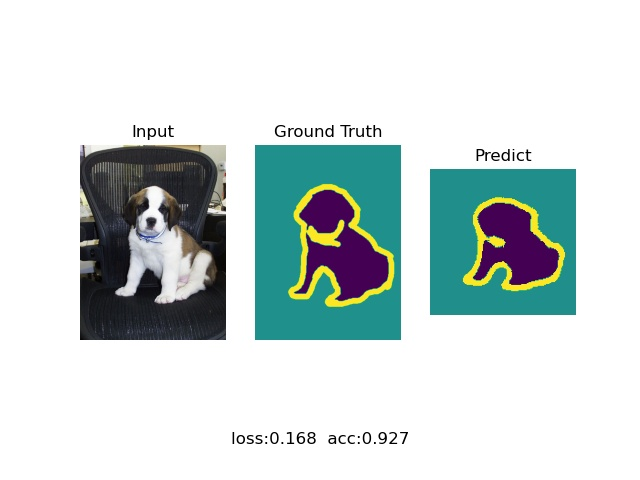
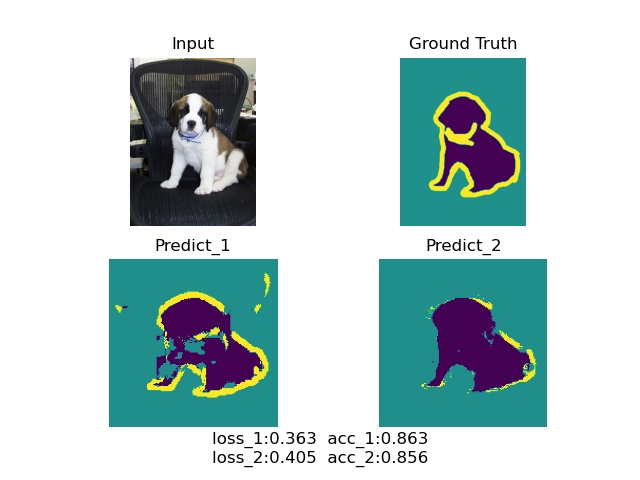
2021-10-08

diff --git a/Keras_train.py b/Keras_train.py
@@ -82,7 +82,6 @@ class OxfordPets(keras.utils.Sequence):
         for j, path in enumerate(batch_target_img_paths):
             img = load_img(path, target_size=self.img_size, color_mode="grayscale")
             y[j] = np.expand_dims(img, 2)
-            # Ground truth labels are 1, 2, 3. Subtract one to make them 0, 1, 2:
             y[j] -= 1
         return x, [y,y]
 
@@ -127,7 +126,7 @@ def get_model(img_size, num_classes):
     #10,10,512   ->  10,10,256
     conv3_1_up = layers.UpSampling2D(2)(conv3_1_up)
     #10,10,256   ->  20,20,256
-    conv3_1 = layers.Concatenate(axis=3)([temporary3_0,conv3_1_up])
+    conv3_1 = layers.Concatenate(axis=-1)([temporary3_0,conv3_1_up])
     #20,20,256+20,20,256 -> 20,20,512
     conv3_1 = layers.Conv2D(256,3,strides=1,padding="same",activation=keras.activations.relu)(conv3_1)
     #20,20,512   ->  20,20,256
@@ -136,7 +135,7 @@ def get_model(img_size, num_classes):
     #20,20,256   ->  20,20,128
     conv2_1_up = layers.UpSampling2D(2)(conv2_1_up)
     #20,20,128   ->  40,40,128
-    conv2_1 = layers.Concatenate(axis=3)([conv2_1_up,temporary2_0])
+    conv2_1 = layers.Concatenate(axis=-1)([conv2_1_up,temporary2_0])
     #40,40,128+40,40,128 -> 40,40,256
     conv2_1 = layers.Conv2D(128,3,strides=1,padding="same",activation=keras.activations.relu)(conv2_1)
     #40,40,256  -> 40,40,128
@@ -145,7 +144,7 @@ def get_model(img_size, num_classes):
     #20,20,256  -> 20,20,128
     conv2_2_up = layers.UpSampling2D(2)(conv2_2_up)
     #20,20,128  -> 40,40,128
-    conv2_2 = layers.Concatenate(axis=3)([temporary2_0,conv2_1,conv2_2_up])
+    conv2_2 = layers.Concatenate(axis=-1)([temporary2_0,conv2_1,conv2_2_up])
     #40,40,128 * 3  => 40,40,384
     conv2_2 = layers.Conv2D(128,3,strides=1,padding="same",activation=keras.activations.relu)(conv2_2)
     #40,40,384  -> 40,40,128
@@ -154,7 +153,7 @@ def get_model(img_size, num_classes):
     #40,40,128  -> 40,40,64
     conv1_1_up = layers.UpSampling2D(2)(conv1_1_up)
     #40,40,64   -> 80,80,64
-    conv1_1 = layers.Concatenate(axis=3)([temporary1_0,conv1_1_up])
+    conv1_1 = layers.Concatenate(axis=-1)([temporary1_0,conv1_1_up])
     #80,80,64 + 80,80,64 -> 80,80,128
     conv1_1 = layers.Conv2D(64,3,strides=1,padding="same",activation=keras.activations.relu)(conv1_1)
     #80,80,128  -> 80,80,64
@@ -163,7 +162,7 @@ def get_model(img_size, num_classes):
     #40,40,128  -> 40,40,64
     conv1_2_up = layers.UpSampling2D(2)(conv1_2_up)
     #40,40,64   -> 80,80,64
-    conv1_2 = layers.Concatenate(axis=3)([temporary1_0,conv1_1,conv1_2_up])
+    conv1_2 = layers.Concatenate(axis=-1)([temporary1_0,conv1_1,conv1_2_up])
     #80,80,64 * 3  -> 80,80,192
     conv1_2 = layers.Conv2D(64,3,strides=1,padding="same",activation=keras.activations.relu)(conv1_2)
     #80,80,192  -> 80,80,64
@@ -172,7 +171,7 @@ def get_model(img_size, num_classes):
     #80,80,64   -> 80,80,32
     conv0_1_up = layers.UpSampling2D(2)(conv0_1_up)
     #80,80,32   -> 160,160,32
-    conv0_1 = layers.Concatenate(axis=3)([temporary0_0,conv0_1_up])
+    conv0_1 = layers.Concatenate(axis=-1)([temporary0_0,conv0_1_up])
     #160,160,32 -> 160,160,64
     conv0_1 = layers.Conv2D(32,3,strides=1,padding="same",activation=keras.activations.relu)(conv0_1)
     #160,160,64 -> 160,160,32

diff --git a/Kersa_result.py b/Kersa_result.py
@@ -67,7 +67,7 @@ class OxfordPets(keras.utils.Sequence):
             y[j] = np.expand_dims(img, 2)
             # Ground truth labels are 1, 2, 3. Subtract one to make them 0, 1, 2:
             y[j] -= 1
-        return x, y
+        return x, [y,y]
 
 
 
@@ -76,7 +76,7 @@ class OxfordPets(keras.utils.Sequence):
 keras.backend.clear_session()
 
 
-model_Res = keras.models.load_model('oxford_unetpp.h5')
+model = keras.models.load_model('oxford_unetpp.h5')
 
 
 
@@ -90,20 +90,24 @@ model_Res = keras.models.load_model('oxford_unetpp.h5')
 test_gen  = OxfordPets( batch_size, img_size, test_input_img_paths , test_target_img_paths)
 #
 # ResNet
-val_preds_Res = model_Res.predict(test_gen)
-loss_R,acc_R  = model_Res.evaluate(test_gen)
-print(str(loss_R)+'----'+str(acc_R))
+predict = model.predict(test_gen)
+loss,loss_1,loss_2,acc_1,acc_2  = model.evaluate(test_gen)
+print(str(loss_1)+'----'+str(acc_1))
+print(str(loss_2)+'----'+str(acc_2))
+
 
 
 
 def display_mask(i):
-    mask = np.argmax(val_preds_Res[i], axis=-1)
-
-    mask = np.expand_dims(mask, axis=-1)
+    mask_1 = np.argmax(predict[0][i], axis=-1)
+    mask_2 = np.argmax(predict[1][i], axis=-1)
+    mask_1 = np.expand_dims(mask_1, axis=-1)
+    mask_2 = np.expand_dims(mask_2,axis=-1)
     #     [160,160,1]
-    img = PIL.ImageOps.autocontrast(keras.preprocessing.image.array_to_img(mask))
+    img_1 = PIL.ImageOps.autocontrast(keras.preprocessing.image.array_to_img(mask_1))
+    img_2 = PIL.ImageOps.autocontrast(keras.preprocessing.image.array_to_img(mask_2))
     # display(img)
-    return img
+    return img_1,img_2
 
 
 
@@ -116,32 +120,35 @@ i = random.randint(0,len(test_input_img_paths)-1)
 def get_result(i):
     img1  = mpimg.imread(test_input_img_paths[i])
     img1_ = mpimg.imread(test_target_img_paths[i])
-    img1__ = display_mask(i)
+    img1__,img1___ = display_mask(i)
 
-    loss = loss_R
-    acc = acc_R
-    title = 'loss:' + str(loss)[0:5] + '  acc:' + str(acc)[0:5]
+
+    title = 'loss_1:' + str(loss_1)[0:5] + '  acc_1:' + str(acc_1)[0:5] +'\nloss_2:'+str(loss_2)[0:5] + '  acc_2:'+str(acc_2)[0:5]
     fname = 'static/result/' + str(i) + '.jpg'
 
 
     # plt.figure("Image") # 图像窗口名称
 
 
-    plt.subplot(1,3,1)
+    plt.subplot(2,2,1)
     plt.imshow(img1)
     plt.axis('off')
     plt.title('Input')
 
-    plt.subplot(1,3,2)
+    plt.subplot(2,2,2)
     plt.imshow(img1_)
     plt.axis('off')
     plt.title('Ground Truth')
 
-    plt.subplot(1,3,3)
+    plt.subplot(2,2,3)
     plt.imshow(img1__)
     plt.axis('off')
-    plt.title('Predict')
+    plt.title('Predict_1')
 
+    plt.subplot(2,2,4)
+    plt.imshow(img1___)
+    plt.axis('off')
+    plt.title('Predict_2')
 
     plt.suptitle(title, y=0.1)
     plt.savefig(fname=fname,figsize=[10,10])
